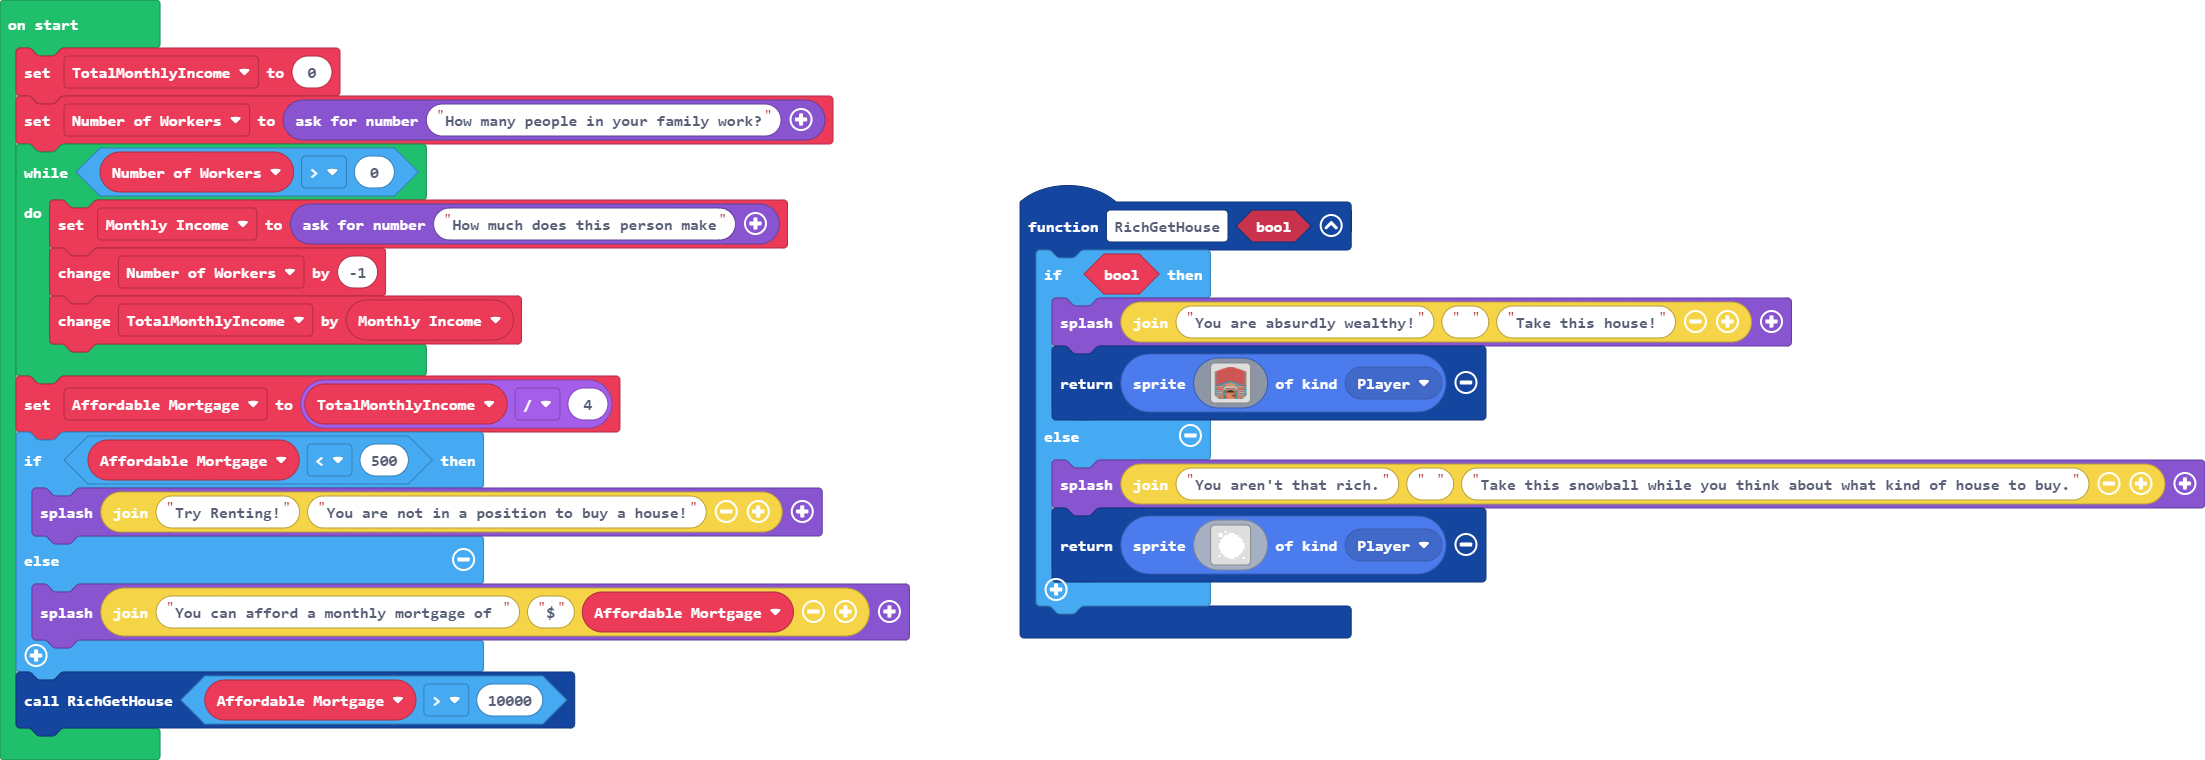
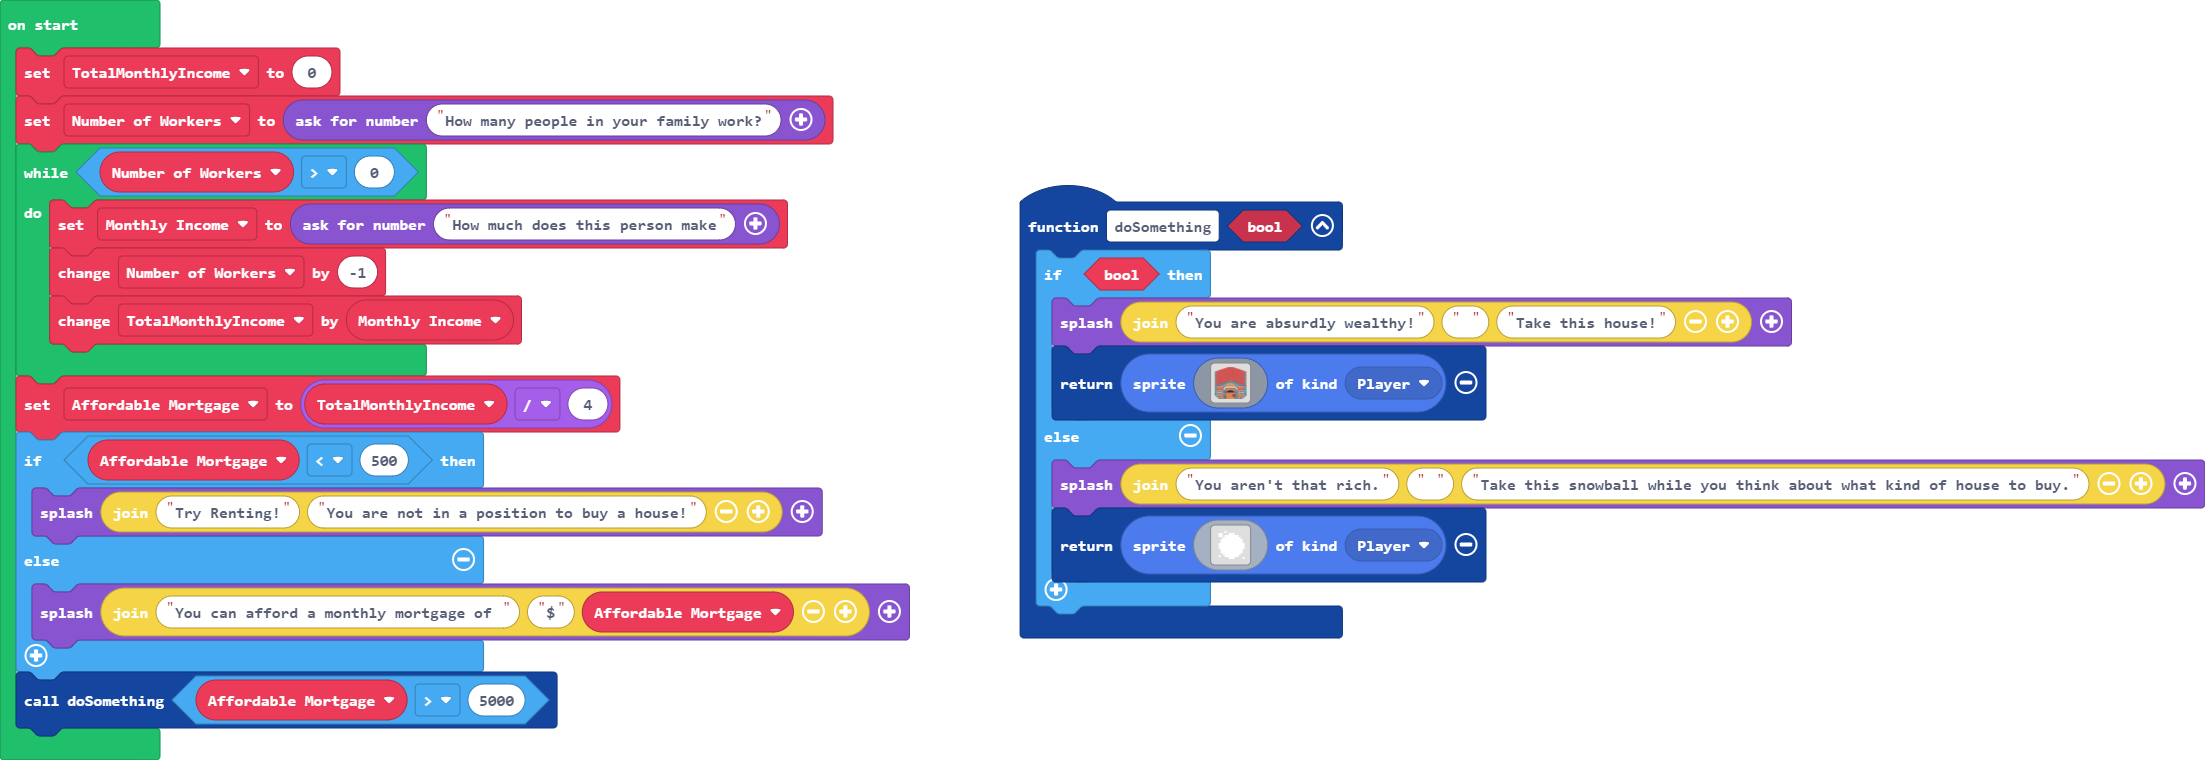
Restore '11/18/2024, 1:41:42 PM Update main.blocks, main.ts'

diff --git a/main.ts b/main.ts
@@ -1,4 +1,4 @@
-function RichGetHouse (bool: boolean) {
+function doSomething (bool: boolean) {
     if (bool) {
         game.splash("You are absurdly wealthy!" + " " + "Take this house!")
         return sprites.create(img`
@@ -87,4 +87,4 @@ if (Affordable_Mortgage < 500) {
 } else {
     game.splash("You can afford a monthly mortgage of " + "$" + Affordable_Mortgage)
 }
-RichGetHouse(Affordable_Mortgage > 10000)
+doSomething(Affordable_Mortgage > 5000)
